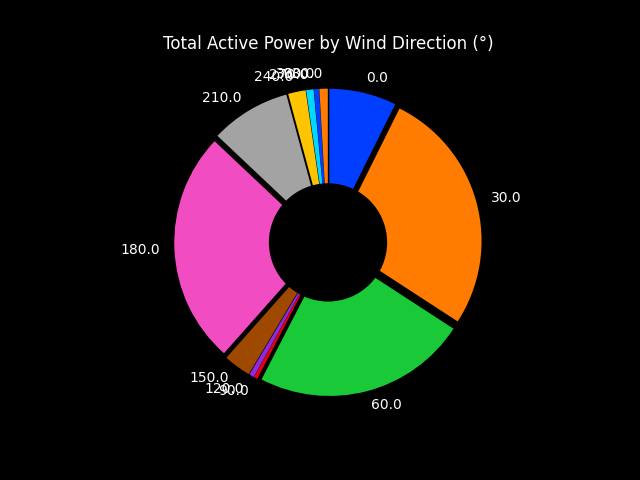
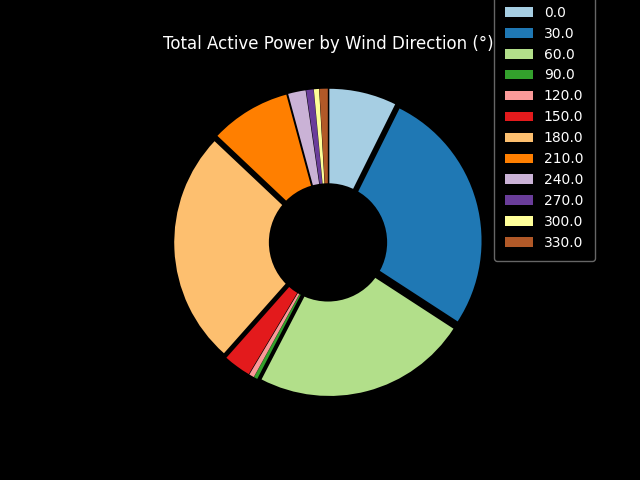
Visual update. (Add legend)

Changed region(s): [[0.1875, 0.0, 0.9375, 0.875], [0.3125, 0.1875, 0.375, 0.2188]]

diff --git a/Predict.py b/Predict.py
@@ -1,7 +1,6 @@
 import array
 import os
 import joblib
-import numpy as np
 from numpy import vectorize
 import pandas as pd
 from pyspark import SparkConf
@@ -18,9 +17,6 @@ from pyspark.sql import SparkSession
 from sklearn.metrics import mean_absolute_error, r2_score
 import warnings
 warnings.simplefilter(action='ignore', category=DeprecationWarning)
-# pip install pyspark
-# pip install keras
-# pip install tensorflow
 
 from Main import optimize_dateformat
 
@@ -73,14 +69,14 @@ def train_model_spark(data):
     train_df = assembler.transform(train_df).select('features', output_feature)
     test_df = assembler.transform(test_df).select('features', output_feature)
 
-# Convert the Spark DataFrames to NumPy arrays
+    # Convert the Spark DataFrames to NumPy arrays
     train_X = array([vectorize.dense(x) for x in train_df.rdd.map(lambda x: x.features).collect()])
     train_y = array(train_df.select(output_feature).rdd.map(lambda x: x[0]).collect())
 
-# Train a random forest regressor model
+    # Train a random forest regressor model
     rf_model = RandomForestRegressor()
 
-# Fit the model to the training data
+    # Fit the model to the training data
     rf_model.fit(train_X, train_y)
 
     # Evaluate the model on the testing data
@@ -134,7 +130,6 @@ def train_model_pandas(data, neuraln_model):
     histgb_model.fit(train_X, train_y)
 
     neuraln_model.fit(train_X, train_y, epochs=65, batch_size=32)
-    #selector = SequentialFeatureSelector(estimator=neuraln_model)
 
     # Prepare the testing data
     test_X = test_df[input_features].values
@@ -236,8 +231,8 @@ def train_model_pandas_with_crossvalidate(data):
 def main():
     data = optimize_dateformat(pd.read_csv('wind_turbine_data.csv'))
     # Create the neural network model
-    neuraln_model = create_neuraln_model((4,))
-    train_model_pandas(data, neuraln_model)
+    #neuraln_model = create_neuraln_model((4,))
+    #train_model_pandas(data, neuraln_model)
     train_model_pandas_with_crossvalidate(data)
     
 main()

diff --git a/Main.py b/Main.py
@@ -1,9 +1,7 @@
 import calendar
 from datetime import timedelta
 from colorama import Fore
-import joblib
-from matplotlib import cm, dates
-from matplotlib.widgets import Slider
+from matplotlib import cm
 import pandas as pd
 import matplotlib as mpl
 import numpy as np
@@ -129,10 +127,14 @@ def corr_between_windspeed_activepower_winddirection(data):
     fig, ax = plt.subplots()
 
     explode = [0.04] * len(grouped_data.index)
-    ax.pie(grouped_data.values, labels=grouped_data.index, startangle=90, counterclock=False, explode = explode)
+    labels = grouped_data.index.astype(str)
+    # Define a custom color palette
+    custom_palette = sns.color_palette("Paired", len(grouped_data.index))
+    ax.pie(grouped_data.values, startangle = 90, counterclock = False, explode = explode, colors=custom_palette)
     plt.title("Total Active Power by Wind Direction (°)")
     centre_circle = plt.Circle((0, 0), 0.4, fc='black')
     ax.add_artist(centre_circle)
+    plt.legend(labels = labels, fancybox = True, loc = 'center left', bbox_to_anchor = (0.93, 0.81), framealpha = 0.5, fontsize = 10, shadow = True, borderpad = 0.8)
     plt.savefig("Results/Total_Active_Power_by_Wind_Direction.png")
     plt.show() 
     clearPlts()
@@ -172,7 +174,6 @@ def avg_power_by_windspeed(data):
             ax.axis(lim)
                 
             for i, bar in enumerate(bars):
-                #bar.set_facecolor("none")
                 x,y = bar.get_xy()
                 h, w = bar.get_height(), bar.get_width()
                 grad = np.atleast_2d(np.linspace(0,1*h/max(ydata),256)).T
@@ -230,7 +231,7 @@ def main():
     data = optimize_dateformat(pd.read_csv('wind_turbine_data.csv'))
     set_dark_bg()
     detect_missing_data(data)
-    check_wind_trends(data)
+    #check_wind_trends(data)
     most_productive_periods(data)
     most_productive_periods(data, 'hour')
     corr_between_windspeed_activepower_winddirection(data)

diff --git a/README.md b/README.md
@@ -1,7 +1,7 @@
 # Analysis of Wind Turbine Performance Data
 
 I found some common questions about wind turbines and I will answer them in this project. :)
-After that I compare 6 different Machine Learning Models and select the best one to a predict REST API .
+After that I compare 6 different Machine Learning Models and select the best one to a predict REST API .(Also compare with Cross-validation, to avoid the overfitting.)
 
 If you run the Main.py, it will show you all plots. But you can see all of them in this readme file. :)
 
